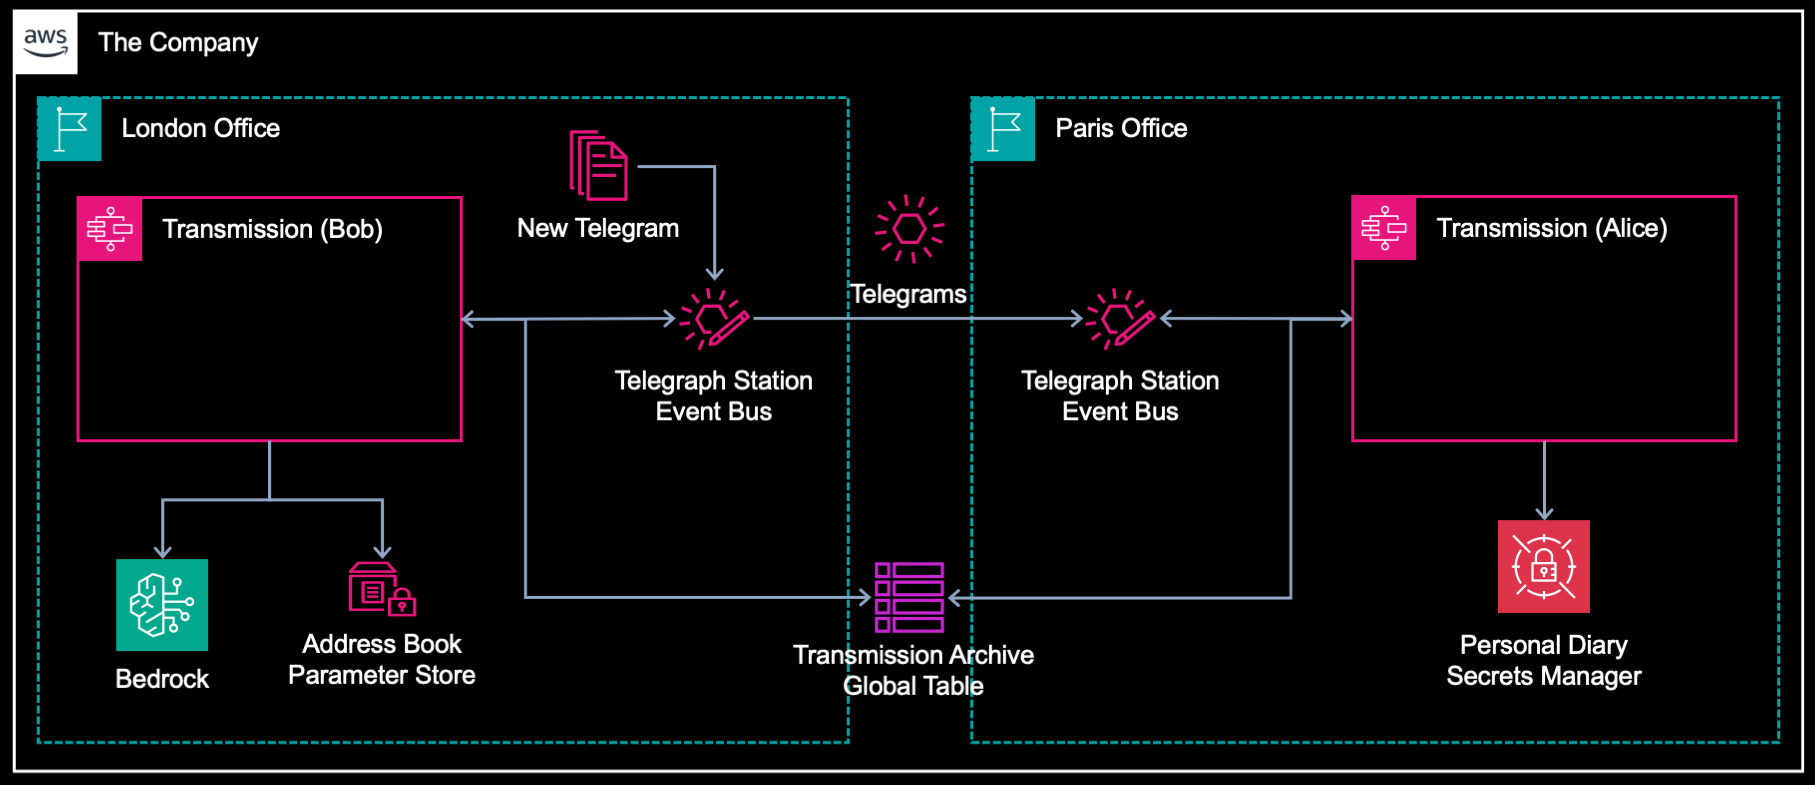
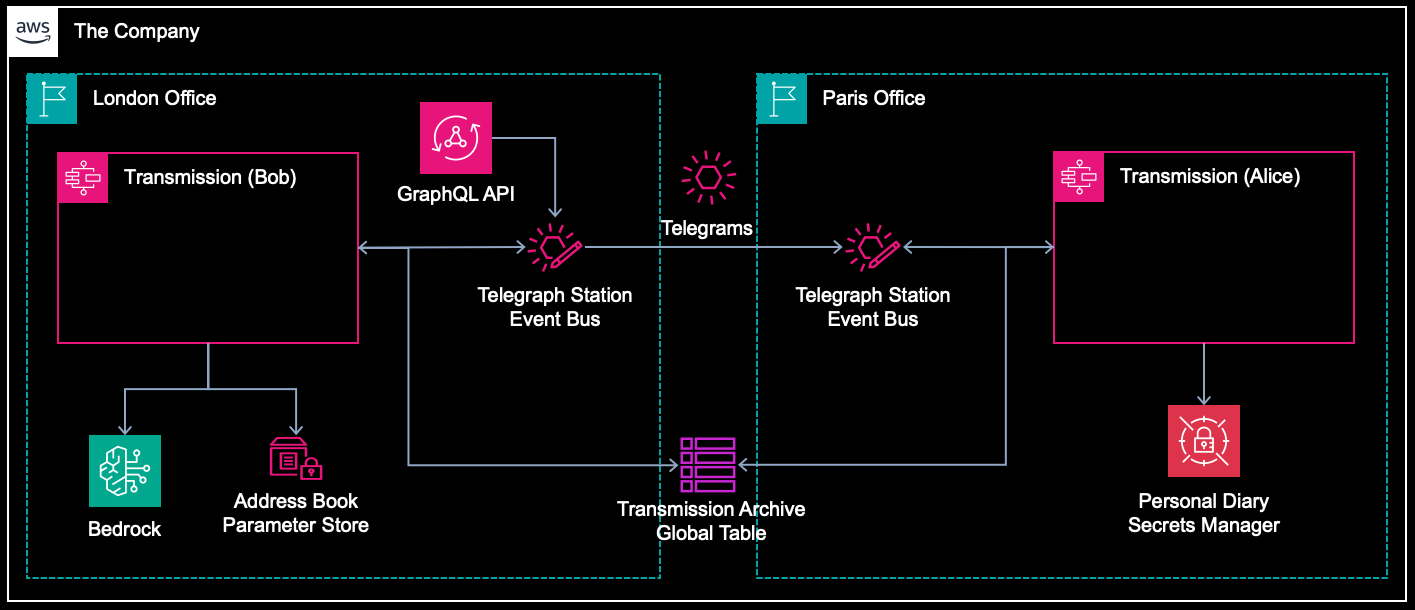
docs: README updates and sample queries

diff --git a/README.md b/README.md
@@ -16,11 +16,12 @@ Alice and Bob both work for The Company. Alice is based in Paris and Bob is base
 
 ## Components
 
-This CDK application deploys 3 CDK stacks in 2 regions:
+This CDK application deploys 4 CDK stacks in 2 regions:
 
-- SharedResourcesStack (primary region)
-- SuperPostPrimaryStack (primary region)
-- SuperPostSecondaryStack (secondary region)
+- TelegraphSharedStack (primary region)
+- TelegraphBobStack (primary region)
+- TelegraphAliceStack (secondary region)
+- TelegraphApiStack (primary region)
 
 Application consists of the following AWS resources:
 
@@ -33,6 +34,9 @@ Application consists of the following AWS resources:
 - CloudWatch log groups
 - CloudWatch dashboard
 - S3 bucket
+- AppSync GraphQL API
+- AppSync GraphQL resolvers (VTL)
+- WAF WebACL
 
 ## Context
 
@@ -44,26 +48,26 @@ Modify the `cdk.context.json` file to change deployment regions:
     "bob": "eu-west-2",
     "alice": "eu-west-3"
   }
+  ...
 }
 ```
 
 ## Start Engine
 
-To start execution of state machines generate a custom EventBridge event in primary region. See sample event file:
+To start the application use either AppSync or EventBridge on AWS Management Console. A custom event will be emitted to custom bus, which will trigger execution of the Bob's state machine.
 
-[compose-telegram.json](src/events/compose-telegram.json)
+### EventBridge
 
-Event detail structure:
+Send an event on the custom bus in the primary region. 
 
-```
-{
-  "from": "Bob",
-  "to": "Alice",
-  "message": "Some message to send as a telegram. It will get converted to telegram format.",
-  "category": "PERSONAL | BUSINESS",
-  "priority": "URGENT | STANDARD"
-}
-```
+* Sample event: [send-telegram.json](src/events/send-telegram.json)
+
+### GraphQL API
+
+Call the `sendTelegram` GraphQL mutation to generate a custom EventBridge event in primary region. A custom event will be emitted to custom bus, which will trigger execution of the Bob's state machine.
+
+* Sample mutation: [send-telegram.graphql](src/graphql/send-telegram.graphql)
+* Sample query: [get-telegram.graphql](src/graphql/get-telegram.graphql)
 
 ## Useful commands
 
